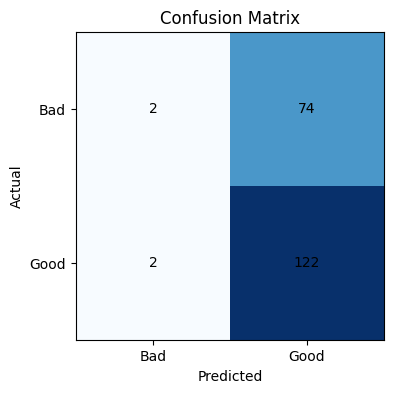
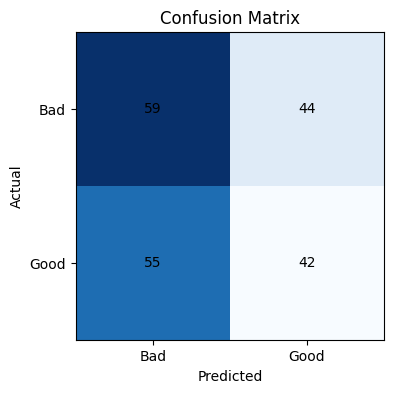
tune model

diff --git a/src/cs568_food_analysis/analysis.py b/src/cs568_food_analysis/analysis.py
@@ -7,6 +7,7 @@ from typing import Tuple
 import numpy as np
 import pandas as pd
 import matplotlib.pyplot as plt
+from sklearn.ensemble import RandomForestClassifier
 from sklearn.linear_model import LogisticRegression
 from sklearn.metrics import accuracy_score, confusion_matrix, roc_auc_score, roc_curve
 from sklearn.model_selection import train_test_split
@@ -20,6 +21,13 @@ def load_augmented_data(augmented_path: str) -> pd.DataFrame:
     return pd.read_csv(augmented_path)
 
 
+def median_split_targets(data: pd.DataFrame) -> pd.DataFrame:
+    median_rating = data["avg_rating"].median()
+    split = data.copy()
+    split["target"] = (split["avg_rating"] > median_rating).astype(int)
+    return split
+
+
 def run_logistic_regression_from_df(
     data: pd.DataFrame,
     target_rating: float,
@@ -30,9 +38,9 @@ def run_logistic_regression_from_df(
         raise RuntimeError(f"Missing required columns in augmented data: {missing}")
 
     data = data.dropna(subset=FEATURE_COLUMNS + ["avg_rating"]).copy()
-    data["target"] = (data["avg_rating"] >= target_rating).astype(int)
-    X = data[FEATURE_COLUMNS].to_numpy()
-    y = data["target"].to_numpy()
+    split = median_split_targets(data)
+    X = split[FEATURE_COLUMNS].to_numpy()
+    y = split["target"].to_numpy()
 
     scaler = StandardScaler()
     X_scaled = scaler.fit_transform(X)
@@ -116,33 +124,28 @@ def build_baseline_features(data: pd.DataFrame) -> pd.DataFrame:
         raise RuntimeError("Missing ingredients or steps columns for baseline features")
 
     ingredients = data["ingredients"].fillna("")
-    steps = data["steps"].fillna("")
-
     ingredient_count = ingredients.apply(
         lambda value: len([item for item in value.split(",") if item.strip()])
     )
-    steps_length = steps.str.len()
 
-    return pd.DataFrame(
-        {
-            "ingredient_count": ingredient_count,
-            "steps_length": steps_length,
-        }
-    )
+    return pd.DataFrame({"ingredient_count": ingredient_count})
 
 
 def plot_roc_curves(
     y_test: np.ndarray,
     llm_scores: np.ndarray,
     baseline_scores: np.ndarray,
+    combined_scores: np.ndarray,
     output_path: str | None = None,
 ) -> None:
     llm_fpr, llm_tpr, _ = roc_curve(y_test, llm_scores)
     baseline_fpr, baseline_tpr, _ = roc_curve(y_test, baseline_scores)
+    combined_fpr, combined_tpr, _ = roc_curve(y_test, combined_scores)
 
     fig, ax = plt.subplots(figsize=(7, 5))
     ax.plot(llm_fpr, llm_tpr, label="LLM Features")
     ax.plot(baseline_fpr, baseline_tpr, label="Baseline")
+    ax.plot(combined_fpr, combined_tpr, label="Combined")
     ax.plot([0, 1], [0, 1], linestyle="--", color="gray")
     ax.set_xlabel("False Positive Rate")
     ax.set_ylabel("True Positive Rate")
@@ -190,43 +193,78 @@ def evaluate_models(
     output_dir: str | None = None,
 ) -> None:
     data = data.dropna(subset=FEATURE_COLUMNS + ["avg_rating"]).copy()
-    y = (data["avg_rating"] >= target_rating).astype(int).to_numpy()
+    split = median_split_targets(data)
+    y = split["target"].to_numpy()
 
-    llm_features = data[FEATURE_COLUMNS].to_numpy()
-    baseline_features = build_baseline_features(data).to_numpy()
+    llm_features = split[FEATURE_COLUMNS].to_numpy()
+    baseline_features = build_baseline_features(split).to_numpy()
+    combined_features = np.hstack([llm_features, baseline_features])
 
     (
         llm_train,
         llm_test,
         baseline_train,
         baseline_test,
+        combined_train,
+        combined_test,
         y_train,
         y_test,
     ) = train_test_split(
         llm_features,
         baseline_features,
+        combined_features,
         y,
         test_size=0.2,
         random_state=42,
         stratify=y,
     )
 
-    llm_model = make_pipeline(StandardScaler(), LogisticRegression(max_iter=max_iter))
-    baseline_model = make_pipeline(StandardScaler(), LogisticRegression(max_iter=max_iter))
+    llm_model = RandomForestClassifier(
+        n_estimators=400,
+        max_depth=8,
+        min_samples_leaf=2,
+        min_samples_split=6,
+        max_features="sqrt",
+        class_weight="balanced_subsample",
+        random_state=42,
+    )
+    baseline_model = RandomForestClassifier(
+        n_estimators=400,
+        max_depth=8,
+        min_samples_leaf=2,
+        min_samples_split=6,
+        max_features="sqrt",
+        class_weight="balanced_subsample",
+        random_state=42,
+    )
+    combined_model = RandomForestClassifier(
+        n_estimators=400,
+        max_depth=8,
+        min_samples_leaf=2,
+        min_samples_split=6,
+        max_features="sqrt",
+        class_weight="balanced_subsample",
+        random_state=42,
+    )
 
     llm_model.fit(llm_train, y_train)
     baseline_model.fit(baseline_train, y_train)
+    combined_model.fit(combined_train, y_train)
 
     llm_scores = llm_model.predict_proba(llm_test)[:, 1]
     baseline_scores = baseline_model.predict_proba(baseline_test)[:, 1]
+    combined_scores = combined_model.predict_proba(combined_test)[:, 1]
 
     llm_pred = (llm_scores >= 0.5).astype(int)
     baseline_pred = (baseline_scores >= 0.5).astype(int)
+    combined_pred = (combined_scores >= 0.5).astype(int)
 
     llm_accuracy = accuracy_score(y_test, llm_pred)
     baseline_accuracy = accuracy_score(y_test, baseline_pred)
+    combined_accuracy = accuracy_score(y_test, combined_pred)
     llm_auc = roc_auc_score(y_test, llm_scores)
     baseline_auc = roc_auc_score(y_test, baseline_scores)
+    combined_auc = roc_auc_score(y_test, combined_scores)
 
     logging.info(
         "LLM features: accuracy=%.3f, ROC-AUC=%.3f", llm_accuracy, llm_auc
@@ -236,6 +274,11 @@ def evaluate_models(
         baseline_accuracy,
         baseline_auc,
     )
+    logging.info(
+        "Combined features: accuracy=%.3f, ROC-AUC=%.3f",
+        combined_accuracy,
+        combined_auc,
+    )
 
     roc_path = None
     cm_path = None
@@ -244,7 +287,13 @@ def evaluate_models(
         roc_path = os.path.join(output_dir, "roc_curve.png")
         cm_path = os.path.join(output_dir, "confusion_matrix.png")
 
-    plot_roc_curves(y_test, llm_scores, baseline_scores, output_path=roc_path)
+    plot_roc_curves(
+        y_test,
+        llm_scores,
+        baseline_scores,
+        combined_scores,
+        output_path=roc_path,
+    )
     plot_confusion_matrix(confusion_matrix(y_test, llm_pred), output_path=cm_path)
 
 

diff --git a/src/cs568_food_analysis/data_prep.py b/src/cs568_food_analysis/data_prep.py
@@ -62,17 +62,29 @@ def load_and_prepare_recipes(recipes_path: str) -> pd.DataFrame:
 
 def load_and_prepare_interactions(interactions_path: str) -> pd.DataFrame:
     interactions = pd.read_csv(interactions_path)
+    user_id_col = _find_column(interactions.columns, ["user_id", "user", "author_id"])
     recipe_id_col = _find_column(interactions.columns, ["recipe_id", "id"])
     rating_col = _find_column(interactions.columns, ["rating", "stars"])
+
+    user_stats = (
+        interactions[[user_id_col, rating_col]]
+        .groupby(user_id_col)[rating_col]
+        .agg(["std", "count"])
+        .reset_index()
+    )
+    unreliable_users = user_stats[
+        (user_stats["count"] > 1) & (user_stats["std"] == 0.0)
+    ][user_id_col]
+    filtered = interactions[~interactions[user_id_col].isin(unreliable_users)]
+
     grouped = (
-        interactions[[recipe_id_col, rating_col]]
+        filtered[[recipe_id_col, rating_col]]
         .groupby(recipe_id_col, as_index=False)
-        .mean()
+        .agg(avg_rating=(rating_col, "mean"), rating_count=(rating_col, "count"))
     )
-    grouped.rename(
-        columns={recipe_id_col: "recipe_id", rating_col: "avg_rating"},
-        inplace=True,
-    )
+    grouped = grouped[grouped["rating_count"] >= 5].copy()
+    grouped.drop(columns=["rating_count"], inplace=True)
+    grouped.rename(columns={recipe_id_col: "recipe_id"}, inplace=True)
     grouped["recipe_id"] = pd.to_numeric(grouped["recipe_id"], errors="coerce").astype(
         "Int64"
     )
